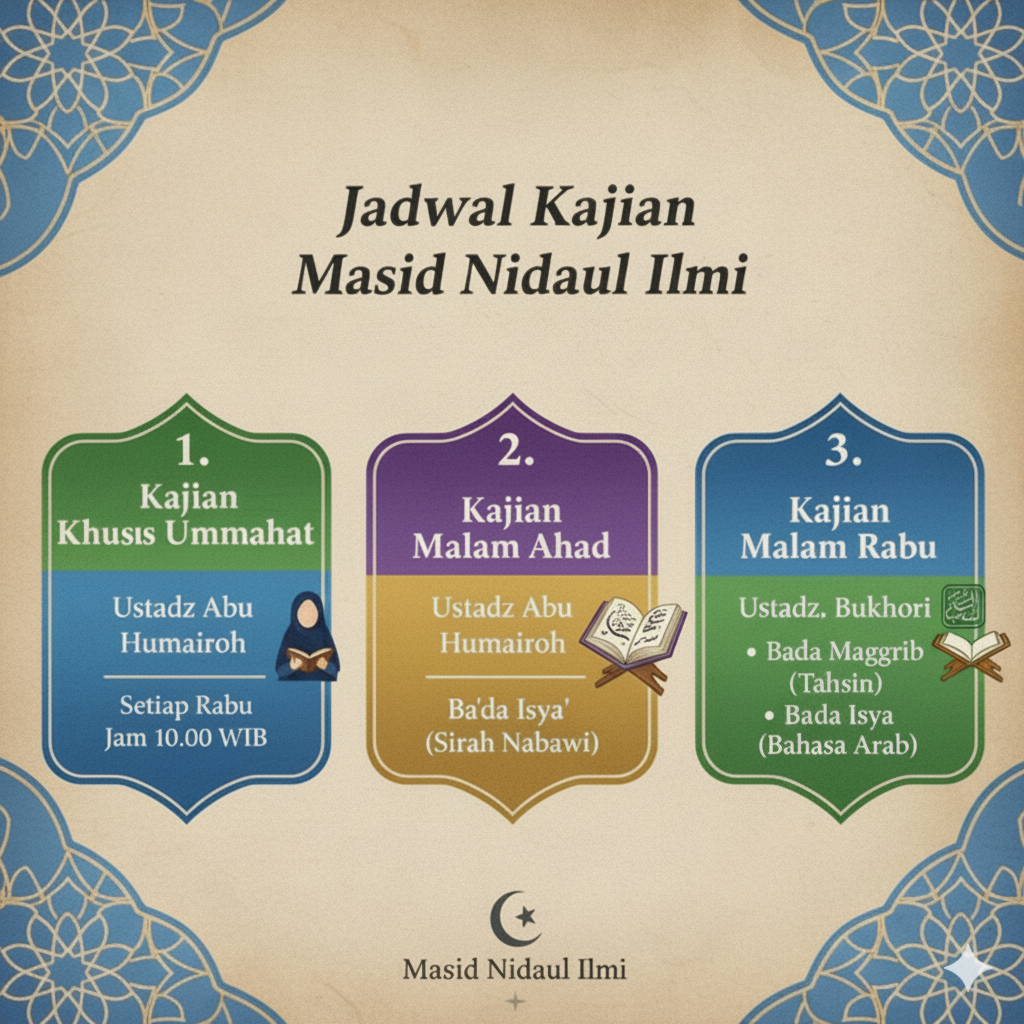
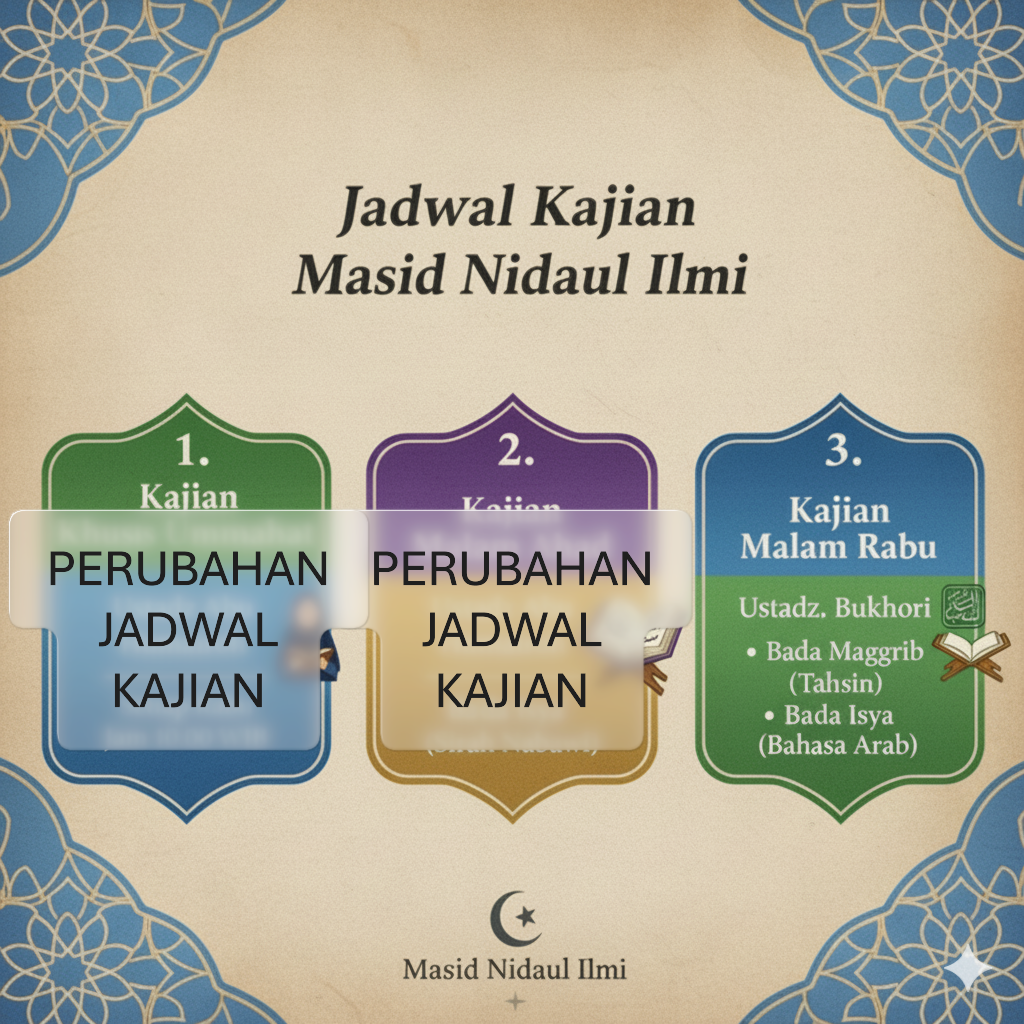
perubahan

Changed region(s): [[0.0, 0.5, 0.6875, 0.75]]

diff --git a/index.html b/index.html
@@ -1018,7 +1018,7 @@ function closeSidebar() {
         }
     }
 </script>
-
+～
 
                   <div class="btn-left">
                     <a href="https://www.facebook.com/FP.Alamin.SeiBeduk" target="_blank" class="btn-link fs-6 text-uppercase item-anchor text-decoration-none">
@@ -1516,7 +1516,7 @@ function closeSidebar() {
                   <script>
                     const jadwalAlMuhajjirin = {
                       0: ["Kajian Ba'da Maghrib<br>Tafsir Ibnu Katsir<br>Ustadz Ahmad – hafidzahullah"],
-                      1: ["Kajian Ba'da Isya<br>Tafsir Al Qur'an & Tematik<br>Ustadz Abu Humairoh – hafidzahullah"],
+                      1: ["Belum ada jadwal kajian rutin untuk hari ini"],
                       2: ["Belum ada jadwal kajian rutin untuk hari ini"],
                       3: ["Belum ada jadwal kajian rutin untuk hari ini"],
                       4: ["Kajian Ba'da Isya<br>Mukhtashor Mausuatil Akhlaq<br>Ustadz Rahmat Nur Hidayat – hafidzahullah"],
@@ -1736,7 +1736,7 @@ function closeSidebar() {
           2: ["Belum ada jadwal kajian rutin untuk hari ini"], // Selasa
           3: ["Belum ada jadwal kajian rutin untuk hari ini"], // Rabu
           4: [ // Kamis
-            "Ba'da Isya<br>Tematik / Kitab Tauhid<br>Ustadz Abu Humairoh - Hafidzahullah"
+            "Belum ada jadwal kajian rutin untuk hari ini"
           ],
           5: ["Belum ada jadwal kajian rutin untuk hari ini"], // Jumat
           6: ["Belum ada jadwal kajian rutin untuk hari ini"]  // Sabtu
